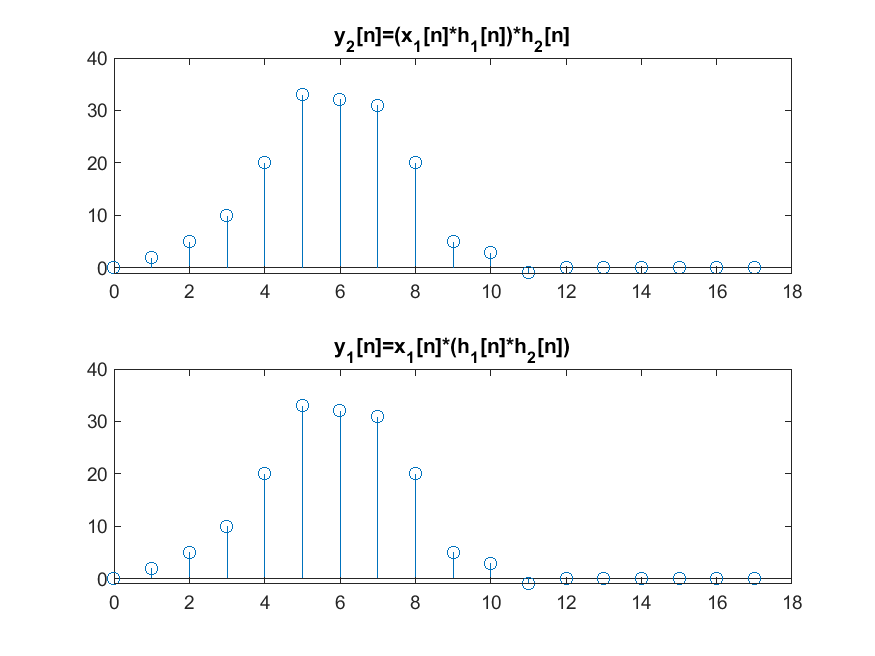
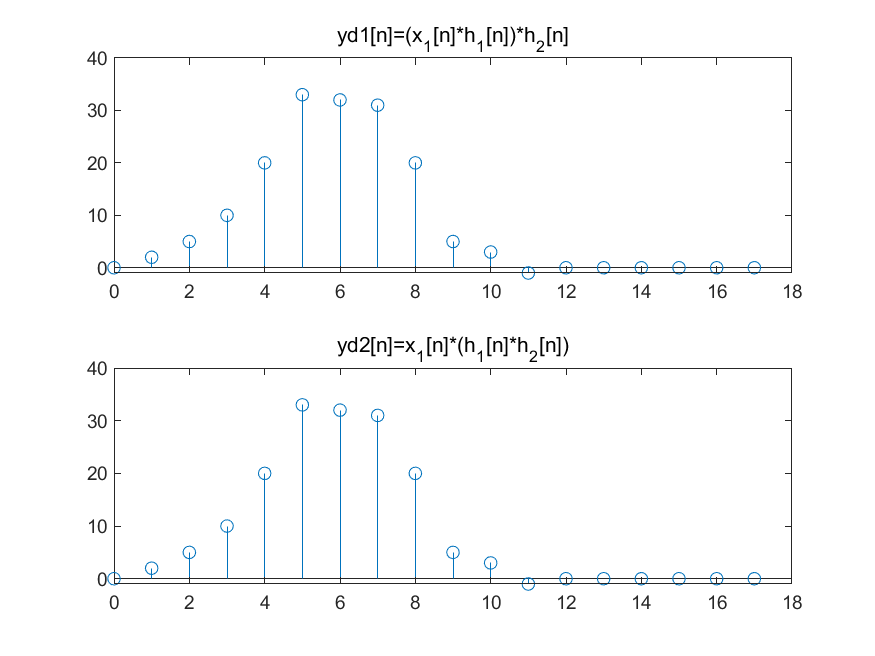
图的title有点问题

diff --git a/LAB2/P2_4_d.m b/LAB2/P2_4_d.m
@@ -12,8 +12,8 @@ y2 = conv(x1, conv(h1, h2));
 
 ny = nh1(1)+nx1(1):1:nh1(end)+nh1(end)+nx1(end)
 
-subplot(2,1,1), stem(ny, y1), title("y_2[n]=(x_1[n]*h_1[n])*h_2[n]");
-subplot(2,1,2), stem(ny, y2), title("y_1[n]=x_1[n]*(h_1[n]*h_2[n])");
+subplot(2,1,1), stem(ny, y1), title("yd1[n]=(x_1[n]*h_1[n])*h_2[n]");
+subplot(2,1,2), stem(ny, y2), title("yd2[n]=x_1[n]*(h_1[n]*h_2[n])");
 
 saveas(gcf, "plots/P2_4_d_out.png");
 close;
